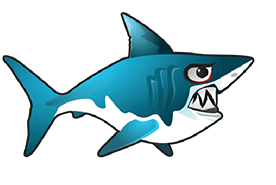
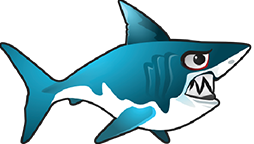
עובד

diff --git a/src/Player.cpp b/src/Player.cpp
@@ -1,10 +1,12 @@
 #include "Player.h"
 #include <iostream>
 //--------------------------------
-Player::Player():Fish(0){ 
+Player::Player():m_initialScaleX(0.5f), m_initialScaleY(0.5f),Fish(0)
+{
 	m_sprite.setTexture(Resources::instance().getTexture(ObjIndex::F_PLAYER));
     m_sprite.setOrigin(m_sprite.getTexture()->getSize().x / 2.f,
         m_sprite.getTexture()->getSize().y / 2.f);
+    m_sprite.setScale(m_initialScaleX, m_initialScaleY);
 }
 //--------------------------------
 Player::Player(sf::RenderWindow& window) :Fish(0) {
@@ -57,6 +59,11 @@ bool Player::getGameOver() const { return m_game_over; }
 //-------------------
 void Player::move(sf::Time deltaTime,sf::RenderWindow& window,int side)
 {
+    if (m_score > 10)
+    {
+        m_initialScaleX = m_initialScaleY = 1.f;
+        //m_sprite.setScale(m_initialScaleX, m_initialScaleY);
+    }
     m_position_before = m_sprite.getPosition();
     m_sprite.move(dirFromKey() * SPEED_PLAYER * deltaTime.asSeconds());
     if (m_sprite.getPosition().x > window.getSize().x-150 ||
@@ -68,7 +75,7 @@ void Player::move(sf::Time deltaTime,sf::RenderWindow& window,int side)
     {
         if(m_scale)
         {
-            m_sprite.setScale(1.f, 1.f);
+            m_sprite.setScale(m_initialScaleX, m_initialScaleY);
             m_scale = false;
         }
     }
@@ -76,11 +83,12 @@ void Player::move(sf::Time deltaTime,sf::RenderWindow& window,int side)
     {
         if(!m_scale)
         {
-            m_sprite.setScale(-1.f, 1.f);
+            m_sprite.setScale(-m_initialScaleX, m_initialScaleY);
             m_scale = true;
         }
         
     }
+    
 }
 //-------------------
 void Player::setPosition(const int window_x, const int window_y)

diff --git a/src/Menu/Command.cpp b/src/Menu/Command.cpp
@@ -1,6 +1,20 @@
 #include "Command.h"
 
-Command::Command(sf::Texture& tex, const sf::Vector2f& position) :m_sprite_menu(tex) {
+Command::Command(sf::Texture& tex, const sf::Vector2f& position)
+    : m_sprite_menu(tex)
+{
     m_sprite_menu.setOrigin(m_sprite_menu.getGlobalBounds().width / 2, m_sprite_menu.getGlobalBounds().height / 2);
     m_sprite_menu.setPosition(position);
+}
+//------------------------------------
+Command::~Command()
+{
+}
+//------------------------------------
+void Command::draw(sf::RenderWindow& window) {
+    window.draw(m_sprite_menu);
+}
+//------------------------------------
+bool Command::isClicked(const sf::Vector2f& mousePos) const {
+    return m_sprite_menu.getGlobalBounds().contains(mousePos);
 }

diff --git a/include/Menu.h b/include/Menu.h
@@ -1,10 +1,11 @@
 #pragma once
 #include <iostream>
 #include <vector>
-#include <map>
 #include <string>
 #include <memory>
-#include <Command.h>
+#include <SFML/Graphics.hpp>
+#include "Command.h"
+#include "Resources.h"
 
 class Menu {
 public:
@@ -16,11 +17,12 @@ public:
 
 private:
     sf::Sprite m_bac;
-    sf::RenderWindow* m_window = nullptr;
+    std::unique_ptr<sf::RenderWindow> m_window;
     typedef std::pair<std::string, std::unique_ptr<Command>> m_option;
     std::vector<m_option> m_options;
-    //---------------------------
+
     void show();
     int getOptionFromUser();
     bool performAction(unsigned n);
+    void handleMouseClick(const sf::Vector2f& mousePos);
 };

diff --git a/include/Controller.h b/include/Controller.h
@@ -1,22 +1,21 @@
 #pragma once
-#include "Fish/Fish.h"
 #include <SFML/Graphics.hpp>
-#include "Player.h"
 #include "Menu.h"
+#include "Player.h"
 #include "Level/ControllerLevel.h"
 
-class Controller
-{
+class Controller {
 public:
-	Controller();
-	~Controller();
-	void run();
-private:
-	Menu m_menu;
-	ControllerLevel m_level;
-	sf::RenderWindow* m_window = nullptr;
-	Player m_player;
-	sf::Sprite m_bac;//,m_f;
-	
-};
+    Controller();
+    ~Controller();
+    void run();
+    void runMenu();
+    void runGame();
 
+private:
+    Menu m_menu;
+    ControllerLevel m_level;
+    //sf::RenderWindow* m_window = nullptr;
+    Player m_player;
+    sf::Sprite m_bac;
+};

diff --git a/src/Level/Level1.cpp b/src/Level/Level1.cpp
@@ -13,6 +13,8 @@ Level1::~Level1()
 //---------------------------------
 void Level1::run()
 {
+    m_fish_eaten.clear();
+    m_player->setScore(0);
     sf::RenderWindow window(sf::VideoMode(1400, 900), "Fish Eats Fish");
     m_window = &window;
     m_text_score.setPosition(sf::Vector2f(50.f, 50.f));
@@ -54,7 +56,7 @@ void Level1::run()
                 it->move(deltaTime, *m_window, 1);
             else
                 it->move(deltaTime, *m_window, -1);
-            handleCollisions(*it);
+ 
             i++;
         }
         m_text_score.setString("SCORE: " + std::to_string(m_player->getScore()));

diff --git a/src/Fish.cpp b/src/Fish.cpp
@@ -9,4 +9,5 @@ Fish::~Fish(){}
 //--------------------------------
 int Fish::getScore() const { return m_score; }
 //--------------------------------
+ void Fish::setScore(const int score)  {  m_score = score; }
 //--------------------------------
